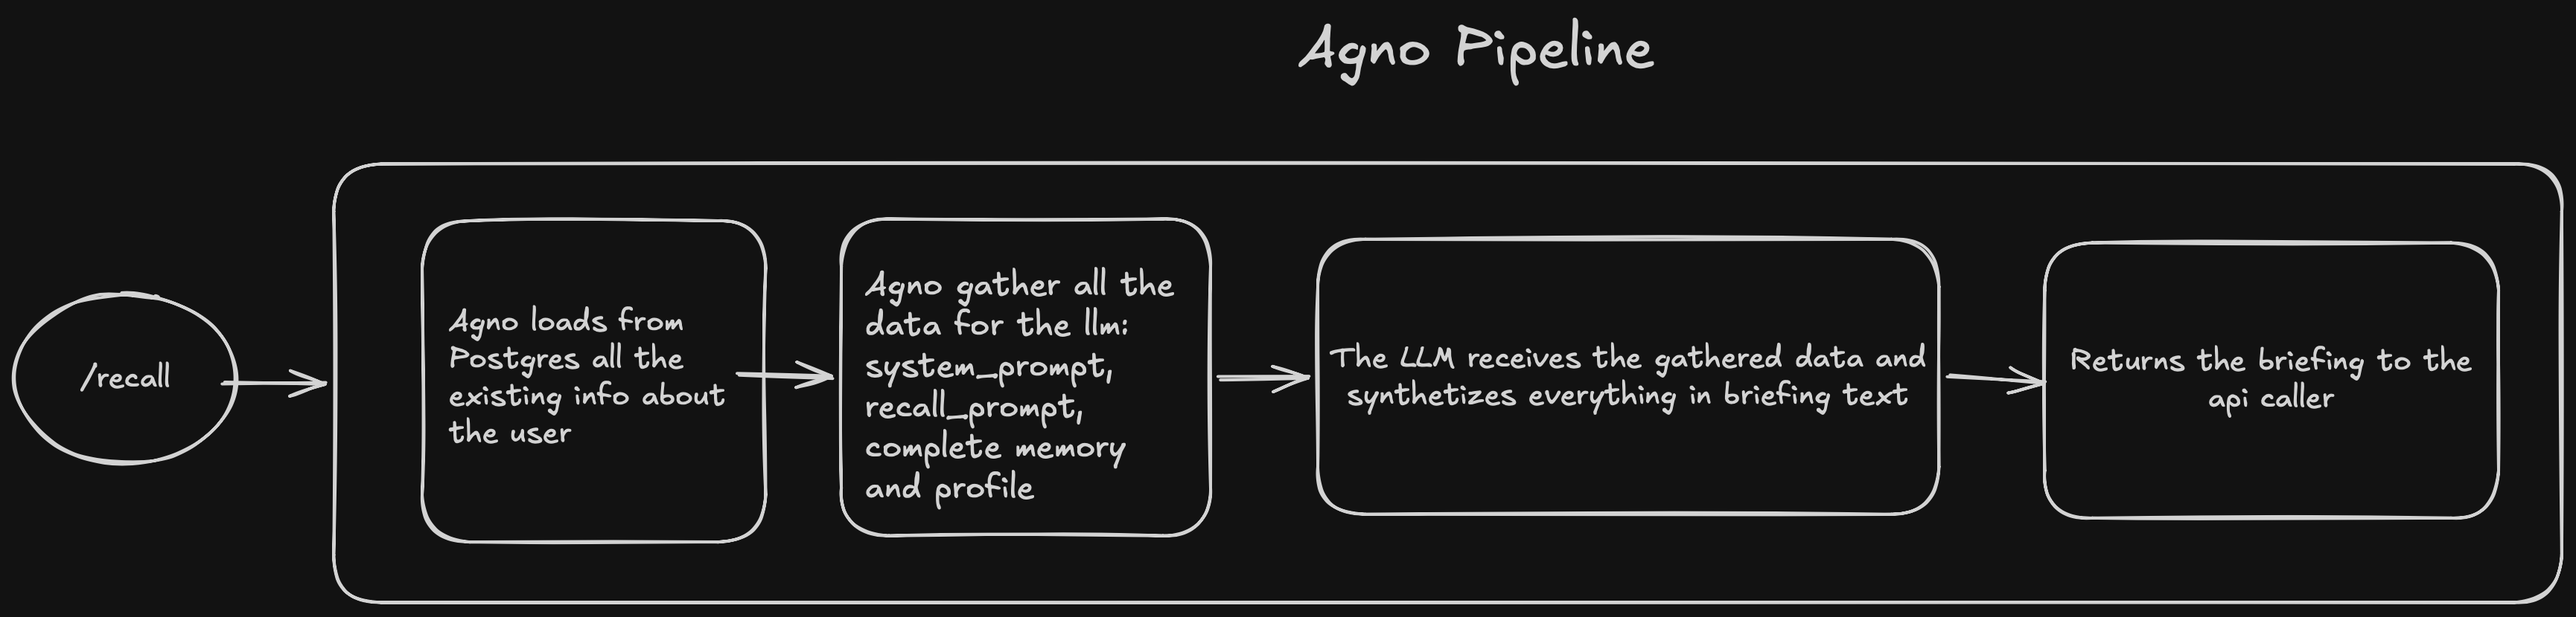
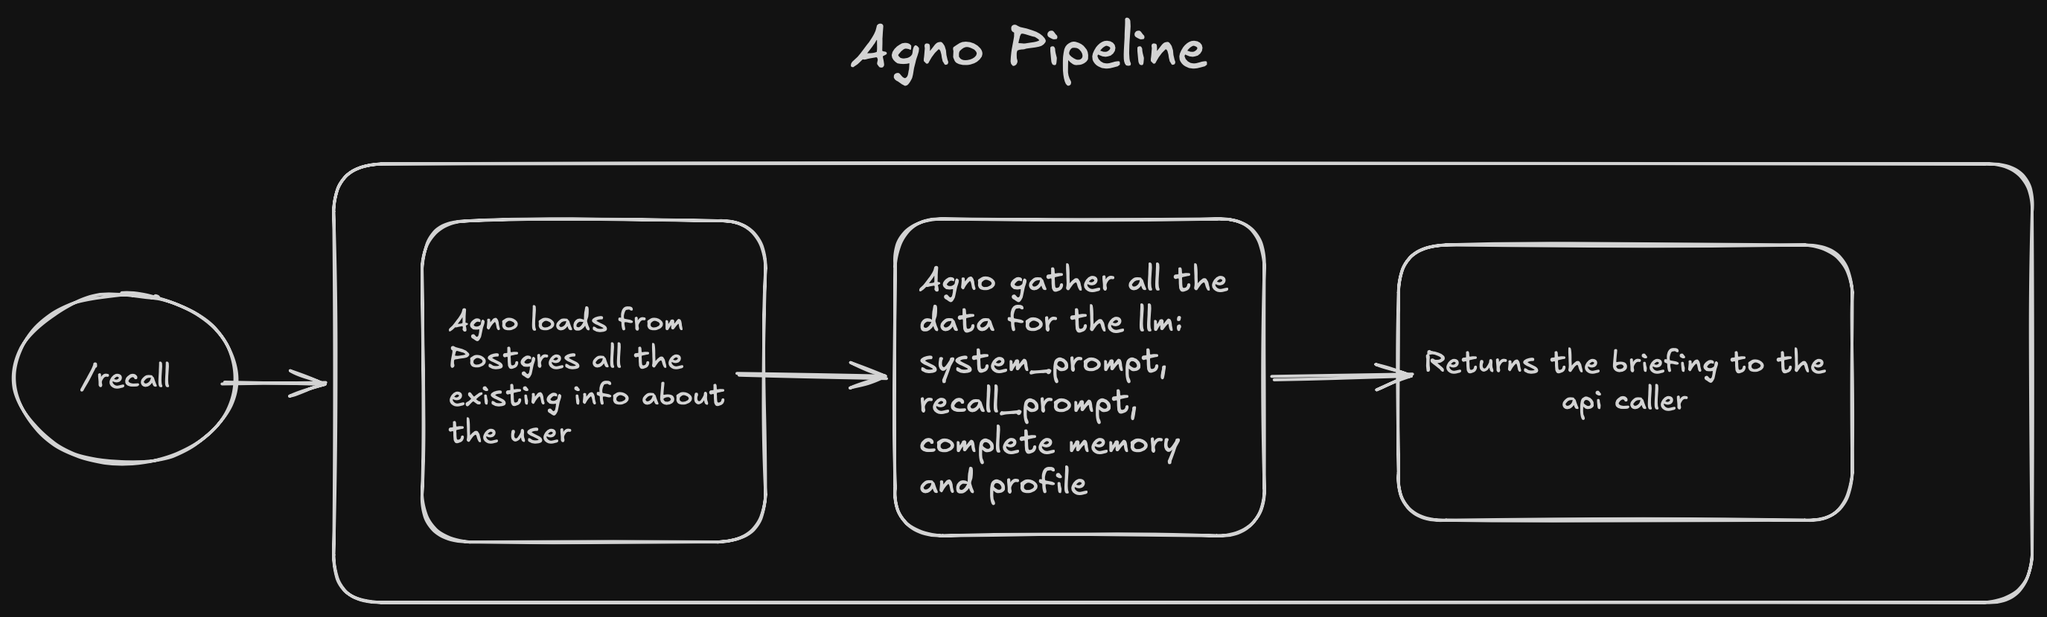
chore: fix some issues and update readme

diff --git a/src/infrastructure/prompts.py b/src/infrastructure/prompts.py
@@ -2,8 +2,6 @@
 Centralized prompt templates for the Agno Memory Bridge API.
 """
 
-from src.core.config import settings
-
 _SYSTEM_PROMPT = """
 You are a **cross-session memory bridge** for a multi-channel AI assistant
 (OpenClaw). The user may talk to the assistant on WhatsApp, Slack, Telegram,
@@ -50,22 +48,12 @@ Example: you stored "meeting with Acme is Monday" (from WhatsApp).
 Later the user says on Slack "Acme meeting moved to Thursday".
 → UPDATE the meeting to Thursday, set last_updated_channel = slack.
 
-─── CHANNEL ATTRIBUTION ──────────────────────────────────────────
+─── CHANNEL ATTRIBUTION ────────────────────────────────────────────
 
 For every entity or fact you store, ALWAYS populate:
 • source_channel — the channel where the information first appeared
 • last_updated_channel — the channel of the most recent update
 This metadata is critical for debugging and transparency.
-
-─── RECALL FORMAT ────────────────────────────────────────────────
-
-When recalling, produce a CONCISE BRIEFING — not raw history.
-Think "briefing notes for a colleague about to talk to this person".
-• Short bullet points, present tense
-• Group by category: profile, upcoming events, active projects, recent decisions
-• If a fact came from a different channel, you may note it in parentheses
-  e.g. "• Meeting with Acme: Thursday 2pm (updated via Slack)"
-• Prioritize recent and actionable information
 """
 
 _EXTRACTION_TEMPLATE = """
@@ -85,27 +73,6 @@ Conversation:
 {conversation}
 """
 
-_RECALL_TEMPLATE = """\
-The user is starting or continuing a session on **{channel}**.
-
-Produce a concise briefing (max {max_tokens} tokens) of everything you know \
-about this user that would be relevant in a {channel} conversation:
-• Profile: name, role, company, preferences, communication style
-• Upcoming events: meetings, deadlines, milestones
-• Active projects and recent decisions
-• Entity relationships: people, teams, tools
-
-Include information from ALL channels — the user expects continuity.
-If a fact originated from another channel, note it in parentheses, e.g. \
-"(via WhatsApp)".
-
-Omit anything older than {min_relevance_days} days unless it is a standing \
-preference or recurring event.
-
-Format: short bullet points, present tense, grouped by category.
-If you have no information about this user, respond with exactly: NO_MEMORY
-"""
-
 def get_system_prompt() -> str:
     """Return the system prompt used as Agent instructions."""
     return _SYSTEM_PROMPT
@@ -117,13 +84,4 @@ def get_extraction_prompt(channel: str, session_id: str, conversation: str) -> s
         channel=channel,
         session_id=session_id,
         conversation=conversation,
-    )
-
-
-def get_recall_prompt(channel: str) -> str:
-    """Build the recall prompt for a given channel."""
-    return _RECALL_TEMPLATE.format(
-        channel=channel,
-        max_tokens=settings.recall_max_tokens,
-        min_relevance_days=settings.recall_min_relevance_days,
     )

diff --git a/tests/test_prompts.py b/tests/test_prompts.py
@@ -1,13 +1,12 @@
 """
 Tests for src/infrastructure/prompts.py
 
-Covers: get_system_prompt, get_extraction_prompt, get_recall_prompt.
+Covers: get_system_prompt, get_extraction_prompt.
 """
 
 from src.infrastructure.prompts import (
     get_system_prompt,
     get_extraction_prompt,
-    get_recall_prompt,
 )
 
 
@@ -53,22 +52,3 @@ class TestGetExtractionPrompt:
     def test_conflict_instructions_present(self):
         prompt = get_extraction_prompt("whatsapp", "s1", "msg")
         assert "conflict" in prompt.lower() or "UPDATE" in prompt
-
-
-class TestGetRecallPrompt:
-    def test_includes_channel(self):
-        prompt = get_recall_prompt("slack")
-        assert "slack" in prompt
-
-    def test_includes_no_memory_sentinel(self):
-        prompt = get_recall_prompt("whatsapp")
-        assert "NO_MEMORY" in prompt
-
-    def test_includes_all_channels_instruction(self):
-        prompt = get_recall_prompt("discord")
-        assert "ALL channels" in prompt or "all channels" in prompt
-
-    def test_includes_token_limit(self):
-        prompt = get_recall_prompt("whatsapp")
-        # Should contain the max_tokens value from settings
-        assert "300" in prompt or "tokens" in prompt.lower()

diff --git a/src/core/config.py b/src/core/config.py
@@ -51,19 +51,6 @@ class Settings(BaseSettings):
         description="Enable entity (people, projects, etc.) memory tracking"
     )
 
-    recall_max_tokens: int = Field(
-        default=300,
-        ge=50,
-        le=2000,
-        description="Maximum tokens in recall response"
-    )
-    recall_min_relevance_days: int = Field(
-        default=30,
-        ge=1,
-        le=3650,
-        description="Exclude memories older than this unless they are standing preferences"
-    )
-
     max_messages_per_request: int = Field(
         default=100,
         ge=1,

diff --git a/tests/test_config.py b/tests/test_config.py
@@ -33,10 +33,6 @@ class TestSettingsDefaults:
         s = Settings(anthropic_api_key="sk-test")
         assert s.enable_entity_memory is True
 
-    def test_default_recall_max_tokens(self):
-        s = Settings(anthropic_api_key="sk-test")
-        assert s.recall_max_tokens == 300
-
     def test_default_max_messages_per_request(self):
         s = Settings(anthropic_api_key="sk-test")
         assert s.max_messages_per_request == 100

diff --git a/src/infrastructure/__init__.py b/src/infrastructure/__init__.py
@@ -7,7 +7,6 @@ Provides dependencies, prompts, and external service integration.
 from .dependencies import AppState, lifespan_context, get_agent
 from .prompts import (
     get_extraction_prompt,
-    get_recall_prompt,
     get_system_prompt,
 )
 
@@ -16,6 +15,5 @@ __all__ = [
     "lifespan_context",
     "get_agent",
     "get_extraction_prompt",
-    "get_recall_prompt",
     "get_system_prompt",
 ]

diff --git a/README.md b/README.md
@@ -29,7 +29,7 @@ User on Slack gets: "• Acme meeting: Thursday (via WhatsApp)"
 4. [Cross-Channel Knowledge Flow](#4-cross-channel-knowledge-flow)
 5. [Conflict Resolution](#5-conflict-resolution)
 6. [Selective Propagation (Noise Filtering)](#6-selective-propagation-noise-filtering)
-7. [OpenClaw Integration — The Skill](#7-openclaw-integration--the-skill)
+7. [OpenClaw Integration — The Plugin](#7-openclaw-integration--the-plugin)
 8. [Cost Analysis](#8-cost-analysis)
 9. [Discussion Answers (Part 2)](#9-discussion-answers-part-2)
 10. [Setup & Running](#10-setup--running)
@@ -50,8 +50,8 @@ User on Slack gets: "• Acme meeting: Thursday (via WhatsApp)"
 └──────┬───────┘     └──────┬───────┘     └──────┬───────┘
        │                    │                    │
        │     ┌──────────────────────────┐        │
-       └────►│   OpenClaw Skill         │◄───────┘
-             │   (HTTP client)          │
+       └────►│   OpenClaw Plugin        │◄───────┘
+             │   (before_prompt_build)  │
              └──────────┬───────────────┘
                         │
               ┌─────────▼─────────┐
@@ -252,6 +252,20 @@ The three stores complement each other:
 
 All tables in Postgres are keyed by `user_id` alone — there is no `channel` column in the key. This means **cross-channel sharing is automatic**. A fact stored from WhatsApp is immediately visible when querying for the same `user_id` from Slack.
 
+#### How `user_id` is derived at runtime
+
+The OpenClaw plugin injects `curl` commands into the system prompt, and the `user_id` field is set via `$(whoami)` — the OS user running the OpenClaw gateway process. Inside the Docker container this resolves to `node`, so **all channels share the same `user_id` bucket automatically**.
+
+This is the correct behavior for a single-user setup (the challenge's target scenario): one person using the assistant across multiple channels should have one unified memory — and that's exactly what happens. There's no per-channel identity to reconcile.
+
+| Scenario | `user_id` value | Cross-channel? | Notes |
+|---|---|---|---|
+| **Docker (default)** | `node` | Yes — all channels share the same bucket | Works for single-user, which is the expected setup |
+| **Bare metal / local dev** | Your OS username | Yes — same as above | Same behavior, different string |
+| **Multi-user (future)** | Would need `senderId` from OpenClaw context | Per-user isolation | Requires adding `senderId?: string` to `PluginHookAgentContext` in OpenClaw core — optional field, non-breaking change |
+
+For production multi-tenant use, the plugin would need the actual sender identity from the channel adapter (e.g. a phone number from WhatsApp, a Slack user ID, etc.). OpenClaw's `PluginHookAgentContext` currently exposes `channelId` but not `senderId`. Adding it would be a one-line, non-breaking change to the core — but it's not needed for the single-user personal assistant scenario this challenge describes.
+
 ---
 
 ## 4. Cross-Channel Knowledge Flow
@@ -265,7 +279,7 @@ User: "My meeting with Acme Corp got moved to Thursday at 2pm"
 Assistant: "Got it! I'll remember the Acme meeting is Thursday at 2pm."
 ```
 
-OpenClaw skill calls `POST /process` with `channel: "whatsapp"`. The LLM extracts and stores:
+OpenClaw plugin calls `POST /process` with `channel: "whatsapp"`. The LLM extracts and stores:
 ```
 EntityMemory: {
   entity_type: "meeting",
@@ -279,7 +293,7 @@ EntityMemory: {
 
 **Step 2 — User opens Slack:**
 
-OpenClaw skill calls `POST /recall` with `channel: "slack"`. Response:
+OpenClaw plugin calls `POST /recall` with `channel: "slack"`. Response:
 ```json
 {
   "user_id": "eduardo",
@@ -388,26 +402,20 @@ Noise vs. signal is a semantic distinction. "That's interesting" after discussin
 
 ---
 
-## 7. OpenClaw Integration — The Skill
+## 7. OpenClaw Integration — The Plugin
 
-The Memory Bridge API is designed to be called by an **OpenClaw skill**.
+The Memory Bridge API is integrated into OpenClaw via a **bundled plugin** (`extensions/learning-machine/`) that lives in the [openclaw fork](https://github.com/viniciusf-dev/openclaw).
 
-The `SKILL.md` follows the [AgentSkills](https://agentskills.io/) spec and has two parts:
+The plugin hooks into the `before_prompt_build` lifecycle event — on **every agent turn**, before the model sees any message, it automatically injects mandatory `/recall` and `/process` instructions into the system prompt via `prependSystemContext`. The agent has no choice but to follow them.
 
-1. **YAML frontmatter** — `name`, `description`, and `metadata` (used for gating: the skill only loads if `LEARNING_MACHINE_API_URL` is set in the environment)
-2. **Markdown body** — instructions in plain English telling the agent exactly when and how to call our API via `curl`
+This is different from a skill (which the model decides whether to use) — the plugin fires unconditionally on every interaction.
 
 ### How it works at runtime
-
-OpenClaw injects eligible skill instructions into the agent's system prompt at session start. From that point:
-
-1. **On every interaction** — the agent calls `POST /process` via `curl` after responding, sending the conversation messages for knowledge extraction
-2. **Before responding to a new session** — the agent calls `GET /recall` first, injects the returned `context` string into its reasoning, and then replies
 
 ```
 User sends message (WhatsApp / Slack / any channel)
         ↓
-Agent reads SKILL.md instructions from system prompt
+before_prompt_build hook fires (plugin injects instructions into system prompt)
         ↓
 Agent calls curl → POST /recall  (gets prior cross-channel context)
         ↓
@@ -422,10 +430,41 @@ Agent calls curl → POST /process  (persists knowledge from this interaction)
 
 1. **`/recall` is called BEFORE the response** — the assistant gets context before it talks, so it can reference cross-channel knowledge naturally
 2. **`/process` is called AFTER the interaction** — both user and assistant messages are sent, so the LLM can extract knowledge from the full conversation
-3. **Context is prepended to the agent's reasoning**, not injected as a fake chat message — keeps the context window efficient
-4. **`has_memory: false` is handled gracefully** — if the API returns no memory, the skill instructs the agent to do nothing. The bot behaves as if the skill doesn't exist.
+3. **Context is prepended to the agent's system prompt** via `prependSystemContext` — prompt-cached, not injected as a fake chat message, keeps token cost efficient
+4. **`has_memory: false` is handled gracefully** — if the API returns no memory, the agent continues normally with no impact on the user
 5. **API errors fail silently** — if the Memory Bridge is down, the `curl` call fails and the agent continues normally. Memory sync degrades gracefully.
-6. **No TypeScript code needed** — the skill is pure Markdown. The OpenClaw agent runtime handles all tool invocation.
+6. **`channelId` is resolved automatically** — the plugin reads `ctx.channelId` from the agent runtime context (set by whichever channel adapter received the message) and passes it to the API. No manual configuration per channel.
+
+### Plugin configuration (`~/.openclaw/openclaw.json`)
+
+```json
+"plugins": {
+  "entries": {
+    "learning-machine": {
+      "enabled": true,
+      "hooks": { "allowPromptInjection": true },
+      "config": {
+        "apiUrl": "http://agno-api:8000",
+        "defaultChannel": "discord"
+      }
+    }
+  }
+}
+```
+
+See `openclaw.json.example` in the openclaw repo root for a full reference config.
+
+### How to run the full stack (OpenClaw + Memory Bridge)
+
+The complete setup instructions — including Docker commands, plugin verification, and a 3-step end-to-end demo — are in the plugin's own README:
+
+**[`extensions/learning-machine/README.md`](https://github.com/viniciusf-dev/openclaw/blob/main/extensions/learning-machine/README.md)** (in the OpenClaw fork)
+
+Quick summary:
+
+1. Start the Memory Bridge API: `docker compose up -d` (in this repo)
+2. Start the OpenClaw gateway with the learning-machine overlay: `docker compose -f docker-compose.yml -f docker-compose.learning-machine.yml up -d openclaw-gateway` (in the [openclaw fork](https://github.com/viniciusf-dev/openclaw))
+3. Verify: `docker exec openclaw-openclaw-gateway-1 openclaw plugins list | grep learning`
 
 ---
 
@@ -503,9 +542,9 @@ The "no vector database" stance is aligned with our approach. I'm using Agno's L
 
 ### 2.3 — Maintaining a Custom Fork
 
-**My strategy: skill-based integration, not a fork.**
+**My strategy: plugin-based integration, not a fork.**
 
-Our solution is a **standalone API** + an **OpenClaw skill**. The skill is a single `SKILL.md` file — pure Markdown instructions that teach the OpenClaw agent to call our API via `curl`. I don't touch OpenClaw's TypeScript core at all. In my opinion, this is the most sustainable architecture possible: if OpenClaw changes internally, our skill only breaks if the agent's `bash` tool or the `SKILL.md` format changes — both of which are far more stable than internal TypeScript APIs.
+Our solution is a **standalone API** + an **OpenClaw plugin** (`extensions/learning-machine/`). The plugin hooks into `before_prompt_build` to inject mandatory instructions on every agent turn — the agent can't skip them. I don't touch OpenClaw's core routing or session logic at all. In my opinion, this is the most sustainable architecture possible: if OpenClaw changes internally, our plugin only breaks if the `before_prompt_build` hook contract or `prependSystemContext` field changes — both of which are far more stable than internal APIs.
 
 **If I needed a fork anyway:**
 
@@ -519,7 +558,7 @@ Our solution is a **standalone API** + an **OpenClaw skill**. The skill is a sin
    - Feature flags: our modifications behind `MEMORY_BRIDGE_ENABLED=true` so they can be disabled
 4. **Contribute upstream:** If our memory bridge proves useful, upstream PRs are the best maintenance strategy. Less divergence = less rebase pain.
 5. **Testing:**
-   - Contract tests: verify OpenClaw's skill API hasn't changed shape
+   - Contract tests: verify OpenClaw's plugin hook API hasn't changed shape
    - Integration tests: spin up OpenClaw + our API in Docker Compose, run end-to-end scenarios
    - Version pinning: `openclaw==X.Y.Z` in requirements, not `>=`
 
@@ -591,8 +630,6 @@ uvicorn src.main:app --reload --port 8000
 | `LLM_REQUEST_TIMEOUT` | `30` | Seconds before an LLM call times out |
 | `LEARNING_MODE` | `always` | `always` \| `smart` \| `never` |
 | `ENABLE_ENTITY_MEMORY` | `true` | Track structured entities (meetings, projects, people) |
-| `RECALL_MAX_TOKENS` | `300` | Max tokens in the recall briefing |
-| `RECALL_MIN_RELEVANCE_DAYS` | `30` | Ignore facts older than N days |
 | `MAX_MESSAGES_PER_REQUEST` | `100` | Max messages per `/process` call |
 | `MAX_MESSAGE_LENGTH` | `10000` | Max characters per message |
 | `POSTGRES_HOST` | `postgres` | Postgres hostname (`localhost` for local dev) |
@@ -644,7 +681,7 @@ curl http://localhost:8000/health
 
 ### `POST /process` — Extract and persist knowledge
 
-Called by the OpenClaw skill **after** each user interaction.
+Called by the OpenClaw plugin **after** each user interaction.
 
 ```bash
 curl -X POST http://localhost:8000/process \
@@ -671,7 +708,7 @@ curl -X POST http://localhost:8000/process \
 
 ### `POST /recall` — Retrieve context briefing
 
-Called by the OpenClaw skill **before** each LLM response. Reads memories directly from the database — no LLM call, near-instant response.
+Called by the OpenClaw plugin **before** each LLM response. Reads memories directly from the database — no LLM call, near-instant response.
 
 ```bash
 curl -X POST http://localhost:8000/recall \
